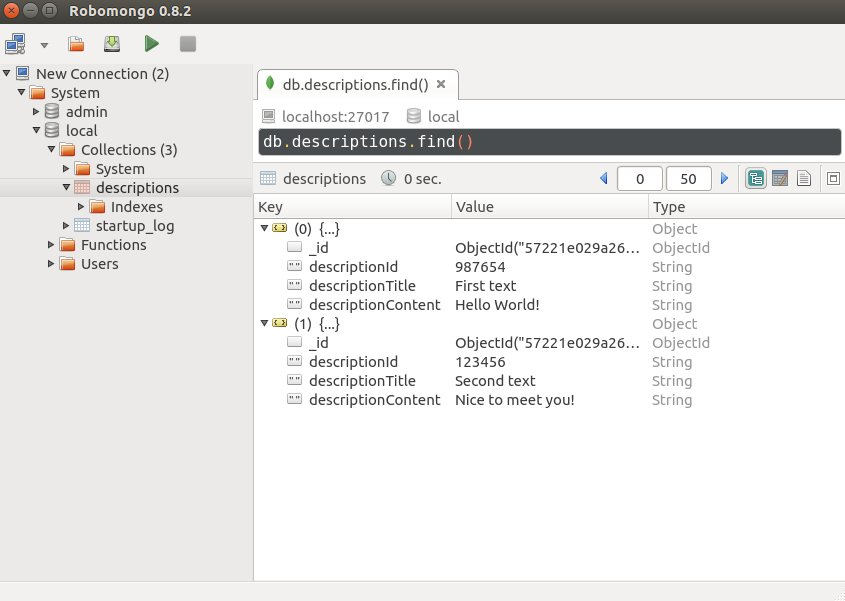
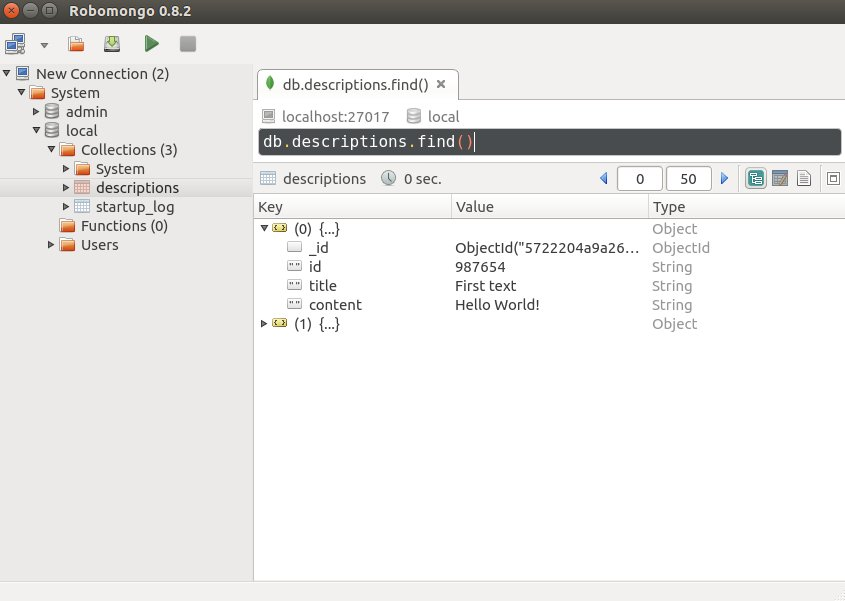
image changed

diff --git a/data.js b/data.js
@@ -1,12 +1,12 @@
   [
     {
-        descriptionId: "987654",
-        descriptionTitle: "First text",
-        descriptionContent: "Hello World!"
+        id: "987654",
+        title: "First text",
+        content: "Hello World!"
     },
     {
-        descriptionId: "123456",
-        descriptionTitle: "Second text",
-        descriptionContent: "Nice to meet you!"
+        id: "123456",
+        title: "Second text",
+        content: "Nice to meet you!"
     }
 ]

diff --git a/tutorial.md b/tutorial.md
@@ -15,14 +15,14 @@ Inside the data.js file we need to insert some data in JSON format:
 ```
 [
     {
-        descriptionId: "987654",
-        descriptionTitle: "First text",
-        descriptionContent: "Hello World!"
+        id: "987654",
+        title: "First text",
+        content: "Hello World!"
     },
     {
-        descriptionId: "123456",
-        descriptionTitle: "Second text",
-        descriptionContent: "Nice to meet you!"
+        id: "123456",
+        title: "Second text",
+        content: "Nice to meet you!"
     }
 ]
 ```
@@ -42,9 +42,11 @@ Another step is to import our data object we created earlier to our MongoDB:
 mongoimport --db local --collection descriptions --jsonArray data.js --host=127.0.0.1
 ```
 
-After executing this command we can view that data through Robomongo:
+After executing this command we can view through Robomongo that data was succesfully imported :
 
 ![Robomongo view data](data-falcor-tutorial.jpg)
+
+### Now let's do server setup with NodeJS and Express.js
 
 
 
